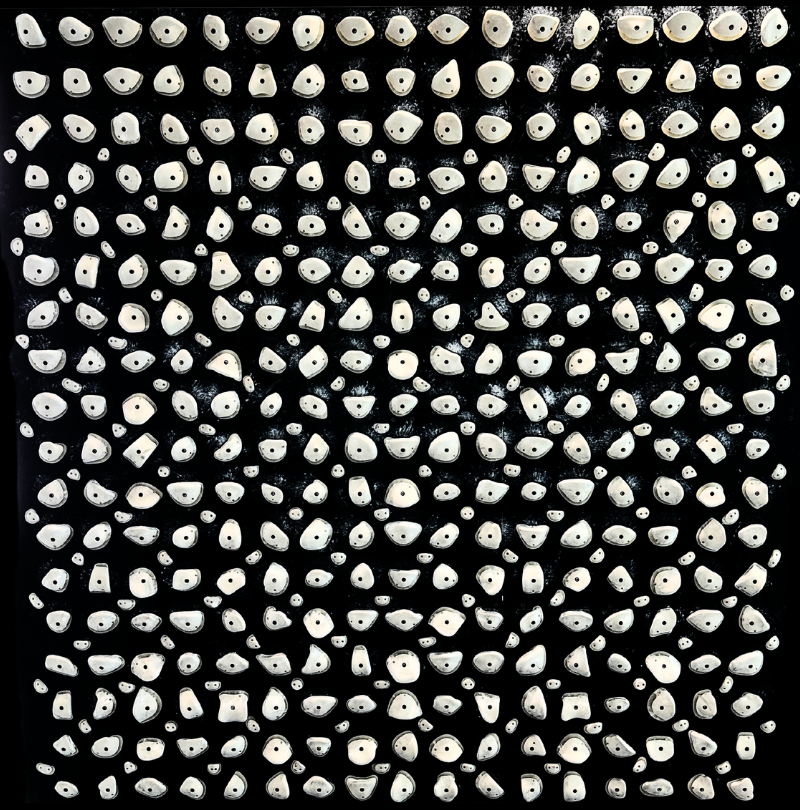
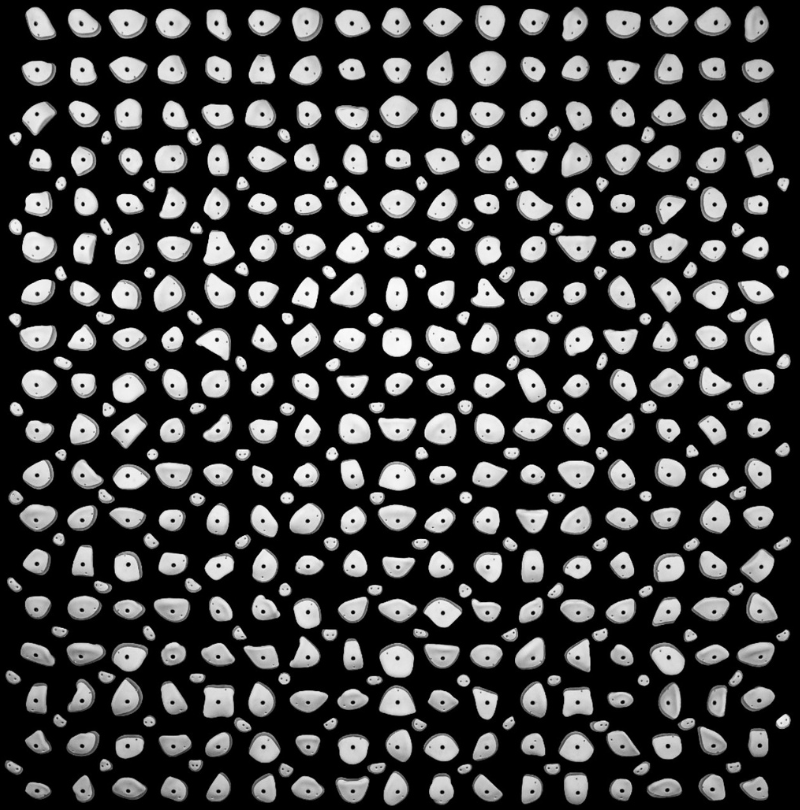
tweaks

diff --git a/board-layout.html b/board-layout.html
@@ -55,7 +55,7 @@
         /* The Interactive Grid Overlay */
     .grid-overlay {
       position: absolute;
-      top: 2%; /* Adjust this to slide the grid down. Try 1%, 2%, 3% etc. */
+      top: 0%; /* Adjust this to slide the grid down. Try 1%, 2%, 3% etc. */
       left: 0;
       width: 100%;
       height: 100%; /* Keep this 100% or adjust to 98% if needed */
@@ -63,12 +63,7 @@
       grid-template-columns: repeat(17, 1fr);
       grid-template-rows: repeat(18, 1fr);
       
-      /* 3D Transform Properties */
-      transform-style: preserve-3d;
-      transform-origin: center center;
       
-      /* Use your calibrated negative value here */
-      transform: perspective(1000px) rotateX(-8deg) rotateY(0deg); 
     }
 
     /* Individual Hold Cell */
@@ -379,29 +374,7 @@
         <span>Show Quality Tiers</span>
       </label>
 
-            <!-- CALIBRATION TOOLS -->
-      <div style="display: flex; gap: 2rem; align-items: center; width: 100%; justify-content: center; margin-top: 1rem; border-top: 1px solid var(--border); padding-top: 1rem;">
-        
-        <!-- Tilt (Negative values tilt the top back) -->
-        <div style="display:flex; flex-direction:column; align-items:center;">
-          <label style="font-size: 0.8rem; opacity: 0.7;">Tilt (Top/Bottom)</label>
-          <input type="range" min="-20" max="20" value="-10" step="0.5" id="calibrateX" style="width: 150px;">
-        </div>
-        
-        <!-- Skew -->
-        <div style="display:flex; flex-direction:column; align-items:center;">
-          <label style="font-size: 0.8rem; opacity: 0.7;">Skew (Left/Right)</label>
-          <input type="range" min="-20" max="20" value="0" step="0.5" id="calibrateY" style="width: 150px;">
-        </div>
-
-        <!-- NEW: Vertical Position (Slide grid down) -->
-        <div style="display:flex; flex-direction:column; align-items:center;">
-          <label style="font-size: 0.8rem; opacity: 0.7;">Position (Up/Down)</label>
-          <input type="range" min="-10" max="10" value="2" step="0.5" id="calibratePos" style="width: 150px;">
-        </div>
-
-      </div>
-      <!-- END CALIBRATION TOOLS -->
+                 
 
     </div> <!-- End board-controls -->
 
@@ -553,30 +526,7 @@
       }
     });
 
-        // ============================================
-    // 4. CALIBRATION HELPER
-    // ============================================
-    const calibrateX = document.getElementById('calibrateX');
-    const calibrateY = document.getElementById('calibrateY');
-    const calibratePos = document.getElementById('calibratePos');
-
-    if (calibrateX && calibrateY && calibratePos) {
-        function updateTransform() {
-          const xVal = calibrateX.value;
-          const yVal = calibrateY.value;
-          const posVal = calibratePos.value; // Get vertical offset
-          
-          // Apply transform AND top position
-          gridOverlay.style.transform = `perspective(1000px) rotateX(${xVal}deg) rotateY(${yVal}deg)`;
-          gridOverlay.style.top = `${posVal}%`; 
-        }
-
-        calibrateX.addEventListener('input', updateTransform);
-        calibrateY.addEventListener('input', updateTransform);
-        calibratePos.addEventListener('input', updateTransform);
-        
-        updateTransform(); // Initialize on load
-    }
+    
 
   </script>
 </body>
